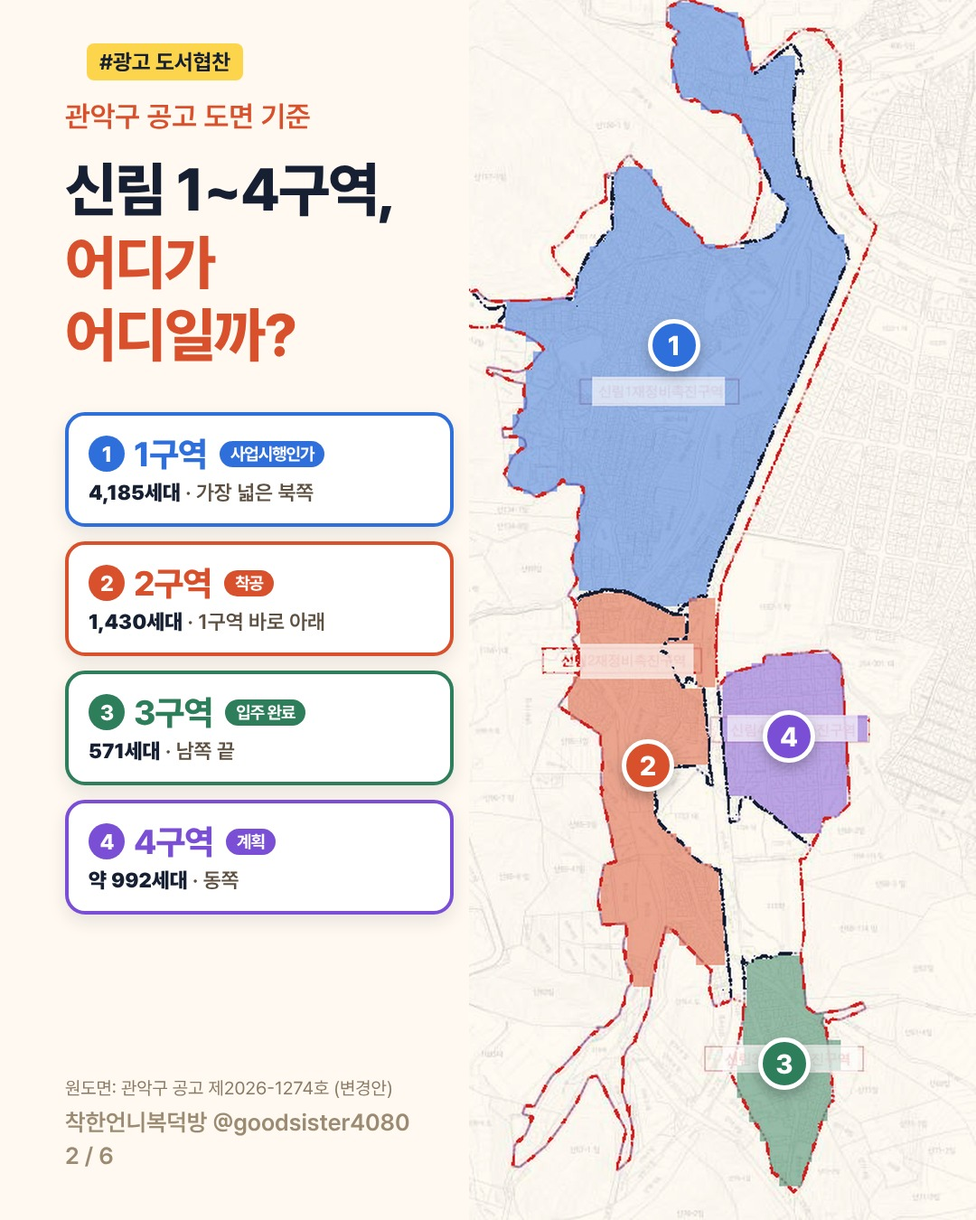
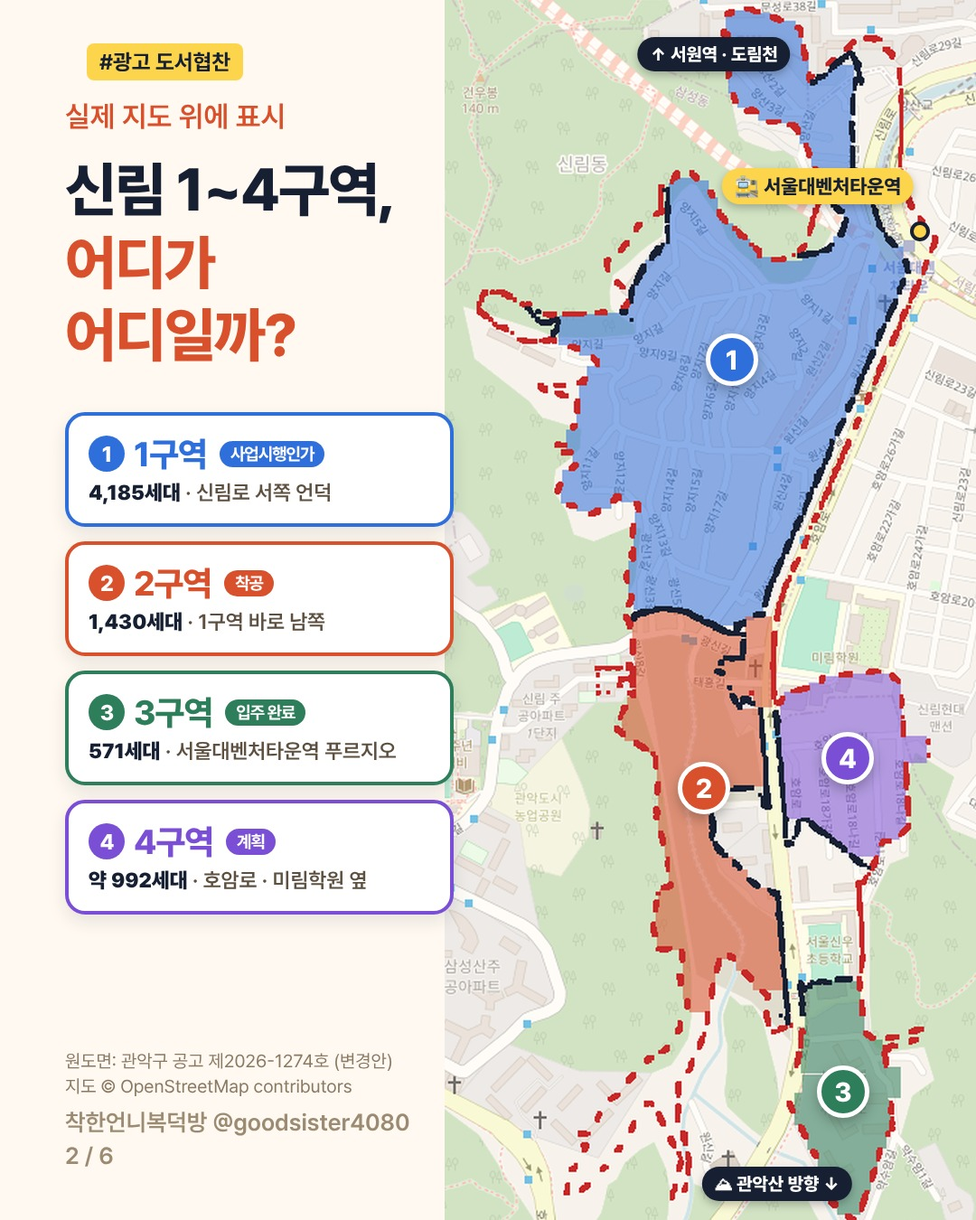
Overlay Sillim zones on real OpenStreetMap basemap with station/landmark labels (blog map + card slide 2)
Claude-Session: https://claude.ai/code/session_01TVq9LzjZFYSSJLZgCBoE65

diff --git a/naver/paste/2026-11-sillim.html b/naver/paste/2026-11-sillim.html
@@ -57,7 +57,7 @@ body{margin:0;background:#f4f4f2;font-family:-apple-system,"Apple SD Gothic Neo"
 <p style="text-align:center;font-size:16px;line-height:1.8;margin:0;font-family:'나눔바른고딕',NanumBarunGothic,'Apple SD Gothic Neo',sans-serif;">✔ <b>권리산정기준일</b>과 그 이후 지분 쪼개기·신축 여부</p><p style="text-align:center;font-size:16px;line-height:1.8;margin:0;font-family:'나눔바른고딕',NanumBarunGothic,'Apple SD Gothic Neo',sans-serif;">✔ 투기과열지구 재개발은 <b>관리처분계획인가 이후 조합원 지위 양도 제한</b> + 법정 예외 해당 여부</p><p style="text-align:center;font-size:16px;line-height:1.8;margin:0;font-family:'나눔바른고딕',NanumBarunGothic,'Apple SD Gothic Neo',sans-serif;">✔ <b>토지거래허가</b> 대상 여부 (지번·용도·면적별 최신 공고)</p>
 <table style="width:100%;border-collapse:collapse;margin:24px 0 12px;"><tr><td style="border-top:1px solid #e5e5e5;border-right:1px solid #e5e5e5;border-bottom:1px solid #e5e5e5;border-left:6px solid #555555;padding:10px 14px;font-size:19px;font-family:'나눔바른고딕',NanumBarunGothic,'Apple SD Gothic Neo',sans-serif;"><b>2. ✨ 신림 1~10구역 한눈에 보기</b></td></tr></table>
 <table style="width:100%;border-collapse:collapse;margin:12px 0;"><tr><td style="background-color:#1a2f5e;color:#ffffff;border:1px solid #d9d9d9;padding:8px;text-align:center;font-size:15px;font-family:'나눔바른고딕',NanumBarunGothic,'Apple SD Gothic Neo',sans-serif;"><b>구역</b></td><td style="background-color:#1a2f5e;color:#ffffff;border:1px solid #d9d9d9;padding:8px;text-align:center;font-size:15px;font-family:'나눔바른고딕',NanumBarunGothic,'Apple SD Gothic Neo',sans-serif;"><b>대표 지번</b></td><td style="background-color:#1a2f5e;color:#ffffff;border:1px solid #d9d9d9;padding:8px;text-align:center;font-size:15px;font-family:'나눔바른고딕',NanumBarunGothic,'Apple SD Gothic Neo',sans-serif;"><b>현재 단계 (기준일)</b></td><td style="background-color:#1a2f5e;color:#ffffff;border:1px solid #d9d9d9;padding:8px;text-align:center;font-size:15px;font-family:'나눔바른고딕',NanumBarunGothic,'Apple SD Gothic Neo',sans-serif;"><b>규모</b></td></tr><tr><td style="border:1px solid #d9d9d9;padding:8px;text-align:center;font-size:15px;font-family:'나눔바른고딕',NanumBarunGothic,'Apple SD Gothic Neo',sans-serif;"><b>1구역</b></td><td style="border:1px solid #d9d9d9;padding:8px;text-align:center;font-size:15px;font-family:'나눔바른고딕',NanumBarunGothic,'Apple SD Gothic Neo',sans-serif;">신림동 808</td><td style="border:1px solid #d9d9d9;padding:8px;text-align:center;font-size:15px;font-family:'나눔바른고딕',NanumBarunGothic,'Apple SD Gothic Neo',sans-serif;">사업시행계획인가 (2025.3.13)</td><td style="border:1px solid #d9d9d9;padding:8px;text-align:center;font-size:15px;font-family:'나눔바른고딕',NanumBarunGothic,'Apple SD Gothic Neo',sans-serif;">4,185세대</td></tr><tr><td style="border:1px solid #d9d9d9;padding:8px;text-align:center;font-size:15px;font-family:'나눔바른고딕',NanumBarunGothic,'Apple SD Gothic Neo',sans-serif;"><b>2구역</b></td><td style="border:1px solid #d9d9d9;padding:8px;text-align:center;font-size:15px;font-family:'나눔바른고딕',NanumBarunGothic,'Apple SD Gothic Neo',sans-serif;">신림동 324-25</td><td style="border:1px solid #d9d9d9;padding:8px;text-align:center;font-size:15px;font-family:'나눔바른고딕',NanumBarunGothic,'Apple SD Gothic Neo',sans-serif;">착공 (관악구 현황 2026.10.26)</td><td style="border:1px solid #d9d9d9;padding:8px;text-align:center;font-size:15px;font-family:'나눔바른고딕',NanumBarunGothic,'Apple SD Gothic Neo',sans-serif;">1,430세대</td></tr><tr><td style="border:1px solid #d9d9d9;padding:8px;text-align:center;font-size:15px;font-family:'나눔바른고딕',NanumBarunGothic,'Apple SD Gothic Neo',sans-serif;"><b>3구역</b></td><td style="border:1px solid #d9d9d9;padding:8px;text-align:center;font-size:15px;font-family:'나눔바른고딕',NanumBarunGothic,'Apple SD Gothic Neo',sans-serif;">신림동 316-55</td><td style="border:1px solid #d9d9d9;padding:8px;text-align:center;font-size:15px;font-family:'나눔바른고딕',NanumBarunGothic,'Apple SD Gothic Neo',sans-serif;"><b>입주 완료</b> · 이전고시 (2026.5.14)</td><td style="border:1px solid #d9d9d9;padding:8px;text-align:center;font-size:15px;font-family:'나눔바른고딕',NanumBarunGothic,'Apple SD Gothic Neo',sans-serif;">571세대 (서울대벤처타운역 푸르지오)</td></tr><tr><td style="border:1px solid #d9d9d9;padding:8px;text-align:center;font-size:15px;font-family:'나눔바른고딕',NanumBarunGothic,'Apple SD Gothic Neo',sans-serif;">4구역</td><td style="border:1px solid #d9d9d9;padding:8px;text-align:center;font-size:15px;font-family:'나눔바른고딕',NanumBarunGothic,'Apple SD Gothic Neo',sans-serif;">신림동 306</td><td style="border:1px solid #d9d9d9;padding:8px;text-align:center;font-size:15px;font-family:'나눔바른고딕',NanumBarunGothic,'Apple SD Gothic Neo',sans-serif;">신통 가이드라인 확정 (2026.4.27)</td><td style="border:1px solid #d9d9d9;padding:8px;text-align:center;font-size:15px;font-family:'나눔바른고딕',NanumBarunGothic,'Apple SD Gothic Neo',sans-serif;">약 992세대 (계획)</td></tr><tr><td style="border:1px solid #d9d9d9;padding:8px;text-align:center;font-size:15px;font-family:'나눔바른고딕',NanumBarunGothic,'Apple SD Gothic Neo',sans-serif;">5구역</td><td style="border:1px solid #d9d9d9;padding:8px;text-align:center;font-size:15px;font-family:'나눔바른고딕',NanumBarunGothic,'Apple SD Gothic Neo',sans-serif;">신림동 412</td><td style="border:1px solid #d9d9d9;padding:8px;text-align:center;font-size:15px;font-family:'나눔바른고딕',NanumBarunGothic,'Apple SD Gothic Neo',sans-serif;">구역지정 (2026.2.26) · 신탁 시행자 지정 (6.4)</td><td style="border:1px solid #d9d9d9;padding:8px;text-align:center;font-size:15px;font-family:'나눔바른고딕',NanumBarunGothic,'Apple SD Gothic Neo',sans-serif;">3,973세대 (계획)</td></tr><tr><td style="border:1px solid #d9d9d9;padding:8px;text-align:center;font-size:15px;font-family:'나눔바른고딕',NanumBarunGothic,'Apple SD Gothic Neo',sans-serif;">6구역</td><td style="border:1px solid #d9d9d9;padding:8px;text-align:center;font-size:15px;font-family:'나눔바른고딕',NanumBarunGothic,'Apple SD Gothic Neo',sans-serif;">신림동 419</td><td style="border:1px solid #d9d9d9;padding:8px;text-align:center;font-size:15px;font-family:'나눔바른고딕',NanumBarunGothic,'Apple SD Gothic Neo',sans-serif;">구역지정 (2026.5.28)</td><td style="border:1px solid #d9d9d9;padding:8px;text-align:center;font-size:15px;font-family:'나눔바른고딕',NanumBarunGothic,'Apple SD Gothic Neo',sans-serif;">957세대 (지정 후 구청 설명)</td></tr><tr><td style="border:1px solid #d9d9d9;padding:8px;text-align:center;font-size:15px;font-family:'나눔바른고딕',NanumBarunGothic,'Apple SD Gothic Neo',sans-serif;">7구역</td><td style="border:1px solid #d9d9d9;padding:8px;text-align:center;font-size:15px;font-family:'나눔바른고딕',NanumBarunGothic,'Apple SD Gothic Neo',sans-serif;">신림동 675</td><td style="border:1px solid #d9d9d9;padding:8px;text-align:center;font-size:15px;font-family:'나눔바른고딕',NanumBarunGothic,'Apple SD Gothic Neo',sans-serif;">조합설립인가 (2026.9 게시)</td><td style="border:1px solid #d9d9d9;padding:8px;text-align:center;font-size:15px;font-family:'나눔바른고딕',NanumBarunGothic,'Apple SD Gothic Neo',sans-serif;">1,402세대 (계획)</td></tr><tr><td style="border:1px solid #d9d9d9;padding:8px;text-align:center;font-size:15px;font-family:'나눔바른고딕',NanumBarunGothic,'Apple SD Gothic Neo',sans-serif;"><b>8구역</b></td><td style="border:1px solid #d9d9d9;padding:8px;text-align:center;font-size:15px;font-family:'나눔바른고딕',NanumBarunGothic,'Apple SD Gothic Neo',sans-serif;">신림동 650</td><td style="border:1px solid #d9d9d9;padding:8px;text-align:center;font-size:15px;font-family:'나눔바른고딕',NanumBarunGothic,'Apple SD Gothic Neo',sans-serif;">조합설립인가 (2026.10.7 고시)</td><td style="border:1px solid #d9d9d9;padding:8px;text-align:center;font-size:15px;font-family:'나눔바른고딕',NanumBarunGothic,'Apple SD Gothic Neo',sans-serif;">2,257세대 (계획)</td></tr><tr><td style="border:1px solid #d9d9d9;padding:8px;text-align:center;font-size:15px;font-family:'나눔바른고딕',NanumBarunGothic,'Apple SD Gothic Neo',sans-serif;">9구역</td><td style="border:1px solid #d9d9d9;padding:8px;text-align:center;font-size:15px;font-family:'나눔바른고딕',NanumBarunGothic,'Apple SD Gothic Neo',sans-serif;">신림동 119-1</td><td style="border:1px solid #d9d9d9;padding:8px;text-align:center;font-size:15px;font-family:'나눔바른고딕',NanumBarunGothic,'Apple SD Gothic Neo',sans-serif;">정비계획 수립 용역</td><td style="border:1px solid #d9d9d9;padding:8px;text-align:center;font-size:15px;font-family:'나눔바른고딕',NanumBarunGothic,'Apple SD Gothic Neo',sans-serif;">미확정</td></tr><tr><td style="border:1px solid #d9d9d9;padding:8px;text-align:center;font-size:15px;font-family:'나눔바른고딕',NanumBarunGothic,'Apple SD Gothic Neo',sans-serif;">10구역</td><td style="border:1px solid #d9d9d9;padding:8px;text-align:center;font-size:15px;font-family:'나눔바른고딕',NanumBarunGothic,'Apple SD Gothic Neo',sans-serif;">신림동 610-200</td><td style="border:1px solid #d9d9d9;padding:8px;text-align:center;font-size:15px;font-family:'나눔바른고딕',NanumBarunGothic,'Apple SD Gothic Neo',sans-serif;">추진위 승인 (2026.7.16)</td><td style="border:1px solid #d9d9d9;padding:8px;text-align:center;font-size:15px;font-family:'나눔바른고딕',NanumBarunGothic,'Apple SD Gothic Neo',sans-serif;">미확정</td></tr></table><p style="text-align:center;font-size:13px;line-height:1.8;margin:0;font-family:'나눔바른고딕',NanumBarunGothic,'Apple SD Gothic Neo',sans-serif;color:#888888;">1~4구역 = 신림재정비촉진지구 · 5~10구역 = 촉진지구 밖 개별 사업지 · "계획" 수치는 인가 단계에서 바뀔 수 있어요</p>
-<p style="text-align:center;margin:12px 0 4px"><img src="img/sillim-1to4-zones.jpg" alt="신림 1~4구역 한눈에 보기 — 구역별 색 표시 (원도면: 관악구 공고 제2026-1274호)" style="max-width:100%;border:1px solid #ddd"></p><p style="text-align:center;font-size:13px;line-height:1.8;margin:0;font-family:'나눔바른고딕',NanumBarunGothic,'Apple SD Gothic Neo',sans-serif;color:#2b7de9;">📷 [이미지 업로드: 신림 1~4구역 한눈에 보기 — 구역별 색 표시 (원도면: 관악구 공고 제2026-1274호) → 오른쪽 '이미지 내려받기']</p>
+<p style="text-align:center;margin:12px 0 4px"><img src="img/sillim-1to4-zones.jpg" alt="신림 1~4구역 한눈에 보기 — 실제 지도 위 구역 표시 (원도면: 관악구 공고 제2026-1274호, 지도 © OpenStreetMap)" style="max-width:100%;border:1px solid #ddd"></p><p style="text-align:center;font-size:13px;line-height:1.8;margin:0;font-family:'나눔바른고딕',NanumBarunGothic,'Apple SD Gothic Neo',sans-serif;color:#2b7de9;">📷 [이미지 업로드: 신림 1~4구역 한눈에 보기 — 실제 지도 위 구역 표시 (원도면: 관악구 공고 제2026-1274호, 지도 © OpenStreetMap) → 오른쪽 '이미지 내려받기']</p>
 <p style="text-align:center;font-size:15px;line-height:1.8;margin:0;font-family:'나눔바른고딕',NanumBarunGothic,'Apple SD Gothic Neo',sans-serif;"><b><span style="color:#7b4fd6">1구역</span></b>(북쪽 가장 넓은 곳) → <b><span style="color:#e0157a">2구역</span></b> → <b>3구역</b>(남쪽, 입주 완료)이 한 줄로 이어지고,</p><p style="text-align:center;font-size:15px;line-height:1.8;margin:0;font-family:'나눔바른고딕',NanumBarunGothic,'Apple SD Gothic Neo',sans-serif;">4구역은 동쪽에 따로 붙어 있어요.</p>
 <p style="text-align:center;margin:12px 0 4px"><img src="img/sillim-1to4-boundary.jpg" alt="원도면 그대로 — 관악구 공고 제2026-1274호 재정비촉진구역 결정도(변경안)" style="max-width:100%;border:1px solid #ddd"></p><p style="text-align:center;font-size:13px;line-height:1.8;margin:0;font-family:'나눔바른고딕',NanumBarunGothic,'Apple SD Gothic Neo',sans-serif;color:#2b7de9;">📷 [이미지 업로드: 원도면 그대로 — 관악구 공고 제2026-1274호 재정비촉진구역 결정도(변경안) → 오른쪽 '이미지 내려받기']</p>
 <p style="text-align:center;font-size:16px;line-height:1.8;margin:0;font-family:'나눔바른고딕',NanumBarunGothic,'Apple SD Gothic Neo',sans-serif;">여기서 하나는 구분해서 봐야 하는데요,</p><p style="text-align:center;font-size:16px;line-height:1.8;margin:0;font-family:'나눔바른고딕',NanumBarunGothic,'Apple SD Gothic Neo',sans-serif;">1~3구역을 합치면 <b>6,186세대</b>지만 <b><span style="color:#7b4fd6">3구역 571세대는 이미 입주</span></b>했어요.</p><p style="text-align:center;font-size:16px;line-height:1.8;margin:0;font-family:'나눔바른고딕',NanumBarunGothic,'Apple SD Gothic Neo',sans-serif;">"앞으로 6천 세대가 들어온다"가 아니라, <b>입주 시기가 각각 다른 6천여 세대</b>예요.</p>
@@ -111,8 +111,8 @@ body{margin:0;background:#f4f4f2;font-family:-apple-system,"Apple SD Gothic Neo"
 <li>⑤ 맨 아래 법정 표시는 「내 템플릿」에 저장해 둔 서명과 같아요 — 템플릿을 썼다면 이 부분은 지워도 돼요</li>
 </ul></div>
 <div class="card"><h3>인용구로 바꿀 문장</h3><ul><li><span class="qk">인용구 · 기본</span> 한 줄 요약 신림은 "뉴타운 하나"가 아니라 단계가 제각각인 10개 사업지예요. 이름보다 구역별 단계부터 보세요. <button class="mini" data-t="한 줄 요약 신림은 &quot;뉴타운 하나&quot;가 아니라 단계가 제각각인 10개 사업지예요. 이름보다 구역별 단계부터 보세요.">문장 복사</button></li></ul></div>
-<div class="card"><h3>이미지 내려받기 (직접 업로드)</h3><ul><li><a href="img/sillim-1to4-zones.jpg" download>신림 1~4구역 한눈에 보기 — 구역별 색 표시 (원도면: 관악구 공고 제2026-1274호)</a></li><li><a href="img/sillim-1to4-boundary.jpg" download>원도면 그대로 — 관악구 공고 제2026-1274호 재정비촉진구역 결정도(변경안)</a></li><li><a href="img/sillim-6-boundary.jpg" download>신림6구역 정비구역 결정도 (서울시 고시 제2026-303호)</a></li><li><a href="img/sillim-6-plan.jpg" download>신림6구역 정비계획 결정도 — 획지·학교·공원 배치 (서울시 고시 제2026-303호)</a></li><li><a href="img/sillim-7-boundary.jpg" download>신림7구역 정비구역 결정도 (관악구 고시 제2024-104호)</a></li></ul></div>
-<div class="card"><h3>발행 정보</h3><ul><li><b>제목(BEST)</b>: 신림 재개발 전망 2026, 지금 사도 될까 (1~10구역 Q&amp;A + 실거래가)</li><li><b>태그</b>: 신림재개발, 신림뉴타운, 신림1구역, 신림2구역, 서울대벤처타운역푸르지오, 신림8구역, 관악구재개발, 착한언니복덕방</li><li><b>썸네일</b>: 「신림, 10개 구역 단계가 다 달라요」 / 「3구역 84㎡ 11억 8천 (26.9)」 / 「여의도 16분 · 강남은?」</li><li><b>⚠ 광고 표기</b>: 상단·책 소개·하단 3곳 유지 (도서 협찬)</li><li><b>도면 이미지</b>: 공식 고시·공고 붙임 도면 (저작권법 제7조) — 출처 캡션 포함, 서울시 신통기획 홈페이지 조감도·위치도는 공공누리 4유형(상업 이용·변경 금지)이라 쓰지 않음</li><li><b>⚠ 발행 전</b>: ✍ 칸 · 네이버 호가(날짜) · 책 쪽수 대조 · 난곡선 예타(12월) 결과 나오면 갱신</li></ul></div>
+<div class="card"><h3>이미지 내려받기 (직접 업로드)</h3><ul><li><a href="img/sillim-1to4-zones.jpg" download>신림 1~4구역 한눈에 보기 — 실제 지도 위 구역 표시 (원도면: 관악구 공고 제2026-1274호, 지도 © OpenStreetMap)</a></li><li><a href="img/sillim-1to4-boundary.jpg" download>원도면 그대로 — 관악구 공고 제2026-1274호 재정비촉진구역 결정도(변경안)</a></li><li><a href="img/sillim-6-boundary.jpg" download>신림6구역 정비구역 결정도 (서울시 고시 제2026-303호)</a></li><li><a href="img/sillim-6-plan.jpg" download>신림6구역 정비계획 결정도 — 획지·학교·공원 배치 (서울시 고시 제2026-303호)</a></li><li><a href="img/sillim-7-boundary.jpg" download>신림7구역 정비구역 결정도 (관악구 고시 제2024-104호)</a></li></ul></div>
+<div class="card"><h3>발행 정보</h3><ul><li><b>제목(BEST)</b>: 신림 재개발 전망 2026, 지금 사도 될까 (1~10구역 Q&amp;A + 실거래가)</li><li><b>태그</b>: 신림재개발, 신림뉴타운, 신림1구역, 신림2구역, 서울대벤처타운역푸르지오, 신림8구역, 관악구재개발, 착한언니복덕방</li><li><b>썸네일</b>: 「신림, 10개 구역 단계가 다 달라요」 / 「3구역 84㎡ 11억 8천 (26.9)」 / 「여의도 16분 · 강남은?」</li><li><b>⚠ 광고 표기</b>: 상단·책 소개·하단 3곳 유지 (도서 협찬)</li><li><b>도면 이미지</b>: 공식 고시·공고 붙임 도면 (저작권법 제7조) · 실제 지도는 OpenStreetMap (출처 표기 필수) — 출처 캡션 포함, 서울시 신통기획 홈페이지 조감도·위치도는 공공누리 4유형(상업 이용·변경 금지)이라 쓰지 않음</li><li><b>⚠ 발행 전</b>: ✍ 칸 · 네이버 호가(날짜) · 책 쪽수 대조 · 난곡선 예타(12월) 결과 나오면 갱신</li></ul></div>
 <div class="card" style="font-size:12px;color:#777">데이터: 국토교통부 아파트 매매·전월세·분양권(입주권) 실거래 (관악구, 2025.11~2026.10 계약분, 2026.11.6 조회) · 구역 단계: 관악구 재정비촉진구역 현황(2026.10.26)·서울시/관악구 고시·정비몽땅 · 교통: 서울시 발표 · 작성 규칙 MASTER v1.2 · 도서 협찬 포함</div>
 </div></div>
 <div class="toast" id="toast">복사됐어요</div>

diff --git a/naver/paste/img/src/blogmap.html b/naver/paste/img/src/blogmap.html
@@ -1,0 +1,31 @@
+<!doctype html><html lang="ko"><head><meta charset="utf-8"><link rel="stylesheet" href="https://cdn.jsdelivr.net/gh/orioncactus/pretendard@v1.3.9/dist/web/static/pretendard.min.css"><style>*{box-sizing:border-box;margin:0;padding:0}body{font-family:Pretendard,sans-serif;word-break:keep-all;background:#888}
+.lb{position:absolute;transform:translate(-50%,-50%);background:#fff;border-radius:24px;padding:16px 24px;box-shadow:0 10px 24px rgba(23,32,51,.2);border:4px solid var(--c);white-space:nowrap;z-index:3}
+.lb .n{display:flex;align-items:center;gap:10px;font-size:40px;font-weight:800;letter-spacing:-1px;color:var(--c)}
+.lb .n i{font-style:normal;width:38px;height:38px;border-radius:50%;background:var(--c);color:#fff;font-size:22px;display:flex;align-items:center;justify-content:center}
+.lb .s{font-size:22px;font-weight:600;color:#5D5040;margin-top:4px}.lb .s b{color:#172033}
+.bd{display:inline-block;font-size:18px;font-weight:700;color:#fff;background:var(--c);border-radius:999px;padding:3px 12px}
+.lm{position:absolute;transform:translate(-50%,-50%);display:flex;align-items:center;gap:6px;background:#172033;color:#fff;font-size:21px;font-weight:700;border-radius:999px;padding:7px 14px 7px 10px;white-space:nowrap;z-index:2;box-shadow:0 4px 10px rgba(0,0,0,.25)}
+.lm.y{background:#FDD54D;color:#172033}.lm.b{background:#2B7DE9}
+.pin{position:absolute;width:54px;height:54px;border-radius:50%;background:var(--c);color:#fff;font-size:28px;font-weight:800;display:flex;align-items:center;justify-content:center;border:5px solid #fff;box-shadow:0 6px 14px rgba(0,0,0,.25);transform:translate(-50%,-50%);z-index:2}
+svg{position:absolute;inset:0;z-index:1}</style><style>
+.w{width:1200px;background:#FFF9F1;color:#172033}.hd{background:#172033;color:#fff;padding:40px 56px 36px}.hd .ey{font-size:24px;font-weight:600;color:#FDD54D;margin-bottom:10px}.hd h1{font-size:50px;font-weight:800;letter-spacing:-1.5px;line-height:1.2}.hd h1 .y{color:#FDD54D}
+.map{position:relative;width:1200px;height:2218px;background:url(osm_blog.png) 0 0/1200px auto no-repeat}
+.ft{padding:28px 56px 40px}.lg{display:flex;flex-wrap:wrap;gap:12px 22px;align-items:center;font-size:24px;font-weight:700}.lg span{display:flex;align-items:center;gap:8px}.lg i{width:26px;height:26px;border-radius:7px;display:inline-block}.lg em{font-style:normal;font-size:21px;font-weight:600;color:#7A6A55}.src{margin-top:16px;font-size:19px;color:#7A6A55;line-height:1.6}.brand{margin-top:12px;font-size:20px;font-weight:700;color:#9C8B73}
+</style></head><body><div class="w">
+<div class="hd"><p class="ey">신림 재정비촉진지구 · 실제 지도 위에 표시</p><h1>신림 1~4구역, <span class="y">어디가 어디일까?</span></h1></div>
+<div class="map">
+<svg width="1200" height="2218"><g stroke-width="5">
+<line x1="546" y1="897" x2="250" y2="830" stroke="#2F6FDB"/><line x1="512" y1="1428" x2="230" y2="1520" stroke="#D9502C"/><line x1="690" y1="1391" x2="1000" y2="1330" stroke="#7A4FD6"/><line x1="684" y1="1803" x2="975" y2="1880" stroke="#2E7D5B"/></g>
+<g fill="#fff" stroke-width="4"><circle cx="546" cy="897" r="11" stroke="#2F6FDB" fill="#2F6FDB"/><circle cx="512" cy="1428" r="11" stroke="#D9502C" fill="#D9502C"/><circle cx="690" cy="1391" r="11" stroke="#7A4FD6" fill="#7A4FD6"/><circle cx="684" cy="1803" r="11" stroke="#2E7D5B" fill="#2E7D5B"/></g><g stroke="#172033" stroke-width="3" fill="#FDD54D"><line x1="780" y1="737" x2="860" y2="700"/><circle cx="780" cy="737" r="12"/><line x1="667" y1="188" x2="667" y2="150"/><circle cx="667" cy="188" r="12"/></g></svg>
+<div class="lb" style="--c:#2F6FDB;left:250px;top:830px"><div class="n"><i>1</i>1구역 <span class="bd">사업시행인가</span></div><div class="s"><b>4,185세대</b> · 신림로 서쪽 언덕</div></div>
+<div class="lb" style="--c:#D9502C;left:230px;top:1520px"><div class="n"><i>2</i>2구역 <span class="bd">착공</span></div><div class="s"><b>1,430세대</b> · 1구역 바로 남쪽</div></div>
+<div class="lb" style="--c:#7A4FD6;left:1000px;top:1330px"><div class="n"><i>4</i>4구역 <span class="bd">계획</span></div><div class="s"><b>약 992세대</b> · 호암로 · 미림학원 옆</div></div>
+<div class="lb" style="--c:#2E7D5B;left:975px;top:1880px"><div class="n"><i>3</i>3구역 <span class="bd">입주 완료</span></div><div class="s"><b>571세대</b> · 서울대벤처타운역 푸르지오</div></div>
+<span class="lm y" style="left:667px;top:135px">🚉 서원역 (신림선)</span>
+<span class="lm y" style="left:960px;top:690px">🚉 서울대벤처타운역 (신림선)</span>
+<span class="lm b" style="left:1000px;top:290px">〰 도림천</span>
+<span class="lm" style="left:600px;top:2150px">⛰ 관악산 방향 ↓</span>
+</div>
+<div class="ft"><div class="lg"><span><i style="background:#2F6FDB"></i>1구역</span><span><i style="background:#D9502C"></i>2구역</span><span><i style="background:#2E7D5B"></i>3구역</span><span><i style="background:#7A4FD6"></i>4구역</span><em>붉은 점선 = 촉진지구 · 남색 = 구역 경계</em></div>
+<p class="src">구역 경계: 관악구 공고 제2026-1274호 결정도(변경안)를 축척(1:5,000)에 맞춰 실제 지도에 겹친 개략 위치예요. 정확한 필지 경계는 고시 도면으로 확인하세요.<br>바탕 지도 © OpenStreetMap contributors · 세대수·단계: 관악구 현황(2026.10.26) · 4구역은 계획 수치</p>
+<p class="brand">착한언니복덕방 @goodsister4080</p></div></div></body></html>

diff --git a/instagram/cards/2026-11-sillim/cards.html b/instagram/cards/2026-11-sillim/cards.html
@@ -63,6 +63,7 @@ tr.hl td{background:#172033;color:#fff}tr.hl td small{color:#AEB6C8}tr.hl td .r{
 .z .n i{font-style:normal;width:40px;height:40px;border-radius:50%;background:var(--c);color:#fff;font-size:24px;display:flex;align-items:center;justify-content:center}
 .z .s{font-size:23px;font-weight:600;color:#5D5040;margin-top:6px}.z .s b{color:#172033}
 .z .bd{display:inline-block;font-size:19px;font-weight:700;color:#fff;background:var(--c);border-radius:999px;padding:3px 12px;margin-left:4px}
+.stn{position:absolute;width:22px;height:22px;border-radius:50%;background:#FDD54D;border:4px solid #172033;transform:translate(-50%,-50%);z-index:3}.lmk{position:absolute;transform:translate(-50%,-50%);background:#FDD54D;color:#172033;font-size:22px;font-weight:800;border-radius:999px;padding:7px 14px;white-space:nowrap;box-shadow:0 4px 10px rgba(0,0,0,.25);z-index:3}.lmk.lt2{background:#172033;color:#fff;font-size:20px}
 .pin{position:absolute;width:58px;height:58px;border-radius:50%;background:var(--c);color:#fff;font-size:30px;font-weight:800;display:flex;align-items:center;justify-content:center;border:5px solid #fff;box-shadow:0 6px 14px rgba(0,0,0,.25);transform:translate(-50%,-50%)}
 </style></head><body>
 
@@ -81,17 +82,17 @@ tr.hl td{background:#172033;color:#fff}tr.hl td small{color:#AEB6C8}tr.hl td .r{
 <!-- 2 지도 -->
 <section class="c mapc" id="c2m"><div class="mp"></div><span class="ad">#광고 도서협찬</span>
   <div class="lt">
-    <p class="ey">관악구 공고 도면 기준</p>
+    <p class="ey">실제 지도 위에 표시</p>
     <h1 style="font-size:66px">신림 1~4구역,<br><span class="o">어디가<br>어디일까?</span></h1>
     <div class="zl">
-      <div class="z" style="--c:#2F6FDB"><div class="n"><i>1</i>1구역<span class="bd">사업시행인가</span></div><div class="s"><b>4,185세대</b> · 가장 넓은 북쪽</div></div>
-      <div class="z" style="--c:#D9502C"><div class="n"><i>2</i>2구역<span class="bd">착공</span></div><div class="s"><b>1,430세대</b> · 1구역 바로 아래</div></div>
-      <div class="z" style="--c:#2E7D5B"><div class="n"><i>3</i>3구역<span class="bd">입주 완료</span></div><div class="s"><b>571세대</b> · 남쪽 끝</div></div>
-      <div class="z" style="--c:#7A4FD6"><div class="n"><i>4</i>4구역<span class="bd">계획</span></div><div class="s"><b>약 992세대</b> · 동쪽</div></div>
+      <div class="z" style="--c:#2F6FDB"><div class="n"><i>1</i>1구역<span class="bd">사업시행인가</span></div><div class="s"><b>4,185세대</b> · 신림로 서쪽 언덕</div></div>
+      <div class="z" style="--c:#D9502C"><div class="n"><i>2</i>2구역<span class="bd">착공</span></div><div class="s"><b>1,430세대</b> · 1구역 바로 남쪽</div></div>
+      <div class="z" style="--c:#2E7D5B"><div class="n"><i>3</i>3구역<span class="bd">입주 완료</span></div><div class="s"><b>571세대</b> · 서울대벤처타운역 푸르지오</div></div>
+      <div class="z" style="--c:#7A4FD6"><div class="n"><i>4</i>4구역<span class="bd">계획</span></div><div class="s"><b>약 992세대</b> · 호암로 · 미림학원 옆</div></div>
     </div>
   </div>
   
-  <span class="ref" style="left:72px;right:auto;bottom:134px;color:#8A7A64">원도면: 관악구 공고 제2026-1274호 (변경안)</span><span class="pin" style="--c:#2F6FDB;left:746px;top:382px">1</span><span class="pin" style="--c:#D9502C;left:717px;top:847px">2</span><span class="pin" style="--c:#7A4FD6;left:873px;top:815px">4</span><span class="pin" style="--c:#2E7D5B;left:868px;top:1177px">3</span>
+  <span class="ref" style="left:72px;right:auto;bottom:134px;color:#8A7A64;width:400px;line-height:1.4">원도면: 관악구 공고 제2026-1274호 (변경안)<br>지도 © OpenStreetMap contributors</span><span class="pin" style="--c:#2F6FDB;left:810px;top:398px">1</span><span class="pin" style="--c:#D9502C;left:779px;top:872px">2</span><span class="pin" style="--c:#7A4FD6;left:938px;top:839px">4</span><span class="pin" style="--c:#2E7D5B;left:933px;top:1208px">3</span><span class="stn" style="left:1018px;top:256px"></span><span class="lmk" style="left:905px;top:206px">🚉 서울대벤처타운역</span><span class="lmk lt2" style="left:790px;top:60px">↑ 서원역 · 도림천</span><span class="lmk lt2" style="left:860px;top:1310px">⛰ 관악산 방향 ↓</span>
   <div class="foot" style="right:auto;width:425px;left:72px;flex-direction:column;gap:6px"><span>착한언니복덕방 @goodsister4080</span><span>2 / 6</span></div>
 </section>
 

diff --git a/index.html b/index.html
@@ -105,7 +105,7 @@ footer{margin-top:48px;color:var(--tx3);font-size:12px}
   <div class="cards">
     <div class="card"><h3>📚 신림 재개발 카드뉴스 · <code>오를 곳</code> · #광고 도서협찬</h3>
       <p><b>신림 재개발, 구역마다 단계가 달라요</b> (6장 · 2장 = 구역 지도 · 릴스와 함께)</p>
-      <div class="thumbs"><a href="instagram/cards/2026-11-sillim/card-sillim-1.png?v=2"><img src="instagram/cards/2026-11-sillim/card-sillim-1.png?v=2" alt="1"></a><a href="instagram/cards/2026-11-sillim/card-sillim-2.png?v=2"><img src="instagram/cards/2026-11-sillim/card-sillim-2.png?v=2" alt="2"></a><a href="instagram/cards/2026-11-sillim/card-sillim-3.png?v=2"><img src="instagram/cards/2026-11-sillim/card-sillim-3.png?v=2" alt="3"></a><a href="instagram/cards/2026-11-sillim/card-sillim-4.png?v=2"><img src="instagram/cards/2026-11-sillim/card-sillim-4.png?v=2" alt="4"></a><a href="instagram/cards/2026-11-sillim/card-sillim-5.png?v=2"><img src="instagram/cards/2026-11-sillim/card-sillim-5.png?v=2" alt="5"></a><a href="instagram/cards/2026-11-sillim/card-sillim-6.png?v=2"><img src="instagram/cards/2026-11-sillim/card-sillim-6.png?v=2" alt="6"></a></div>
+      <div class="thumbs"><a href="instagram/cards/2026-11-sillim/card-sillim-1.png?v=2"><img src="instagram/cards/2026-11-sillim/card-sillim-1.png?v=2" alt="1"></a><a href="instagram/cards/2026-11-sillim/card-sillim-2.png?v=3"><img src="instagram/cards/2026-11-sillim/card-sillim-2.png?v=3" alt="2"></a><a href="instagram/cards/2026-11-sillim/card-sillim-3.png?v=2"><img src="instagram/cards/2026-11-sillim/card-sillim-3.png?v=2" alt="3"></a><a href="instagram/cards/2026-11-sillim/card-sillim-4.png?v=2"><img src="instagram/cards/2026-11-sillim/card-sillim-4.png?v=2" alt="4"></a><a href="instagram/cards/2026-11-sillim/card-sillim-5.png?v=2"><img src="instagram/cards/2026-11-sillim/card-sillim-5.png?v=2" alt="5"></a><a href="instagram/cards/2026-11-sillim/card-sillim-6.png?v=2"><img src="instagram/cards/2026-11-sillim/card-sillim-6.png?v=2" alt="6"></a></div>
       <ul><li>캡션·고정 댓글: <a href="instagram/cards/2026-11-sillim/README.html"><b>README</b></a></li><li>릴스 대본 수정본: <a href="instagram/2026-11-sillim-reel-cards.html">릴스·카드 기획</a></li><li>블로그: <a href="naver/paste/2026-11-sillim.html"><b>📋 붙여넣기용</b></a></li></ul></div>
     <div class="card"><h3>11/6(금) 카드뉴스 · <code>계약금</code> · 오늘 밤 9시</h3>
       <p><b>대출 안 나오면 계약금 돌려받나요?</b> (4장)</p>

diff --git a/tools/blog_paste.py b/tools/blog_paste.py
@@ -550,7 +550,7 @@ def sillim():
              ["9구역", "신림동 119-1", "정비계획 수립 용역", "미확정"],
              ["10구역", "신림동 610-200", "추진위 승인 (2026.7.16)", "미확정"]],
             note="1~4구역 = 신림재정비촉진지구 · 5~10구역 = 촉진지구 밖 개별 사업지 · \"계획\" 수치는 인가 단계에서 바뀔 수 있어요")
-    a.image("img/sillim-1to4-zones.jpg", "신림 1~4구역 한눈에 보기 — 구역별 색 표시 (원도면: 관악구 공고 제2026-1274호)")
+    a.image("img/sillim-1to4-zones.jpg", "신림 1~4구역 한눈에 보기 — 실제 지도 위 구역 표시 (원도면: 관악구 공고 제2026-1274호, 지도 © OpenStreetMap)")
     a.text("[[1구역]](북쪽 가장 넓은 곳) → {{2구역}} → **3구역**(남쪽, 입주 완료)이 한 줄로 이어지고,", "4구역은 동쪽에 따로 붙어 있어요.", size=15)
     a.image("img/sillim-1to4-boundary.jpg", "원도면 그대로 — 관악구 공고 제2026-1274호 재정비촉진구역 결정도(변경안)")
     a.text("여기서 하나는 구분해서 봐야 하는데요,", "1~3구역을 합치면 **6,186세대**지만 [[3구역 571세대는 이미 입주]]했어요.",
@@ -648,7 +648,7 @@ def sillim():
             "**태그**: 신림재개발, 신림뉴타운, 신림1구역, 신림2구역, 서울대벤처타운역푸르지오, 신림8구역, 관악구재개발, 착한언니복덕방",
             "**썸네일**: 「신림, 10개 구역 단계가 다 달라요」 / 「3구역 84㎡ 11억 8천 (26.9)」 / 「여의도 16분 · 강남은?」",
             "**⚠ 광고 표기**: 상단·책 소개·하단 3곳 유지 (도서 협찬)",
-            "**도면 이미지**: 공식 고시·공고 붙임 도면 (저작권법 제7조) — 출처 캡션 포함, 서울시 신통기획 홈페이지 조감도·위치도는 공공누리 4유형(상업 이용·변경 금지)이라 쓰지 않음",
+            "**도면 이미지**: 공식 고시·공고 붙임 도면 (저작권법 제7조) · 실제 지도는 OpenStreetMap (출처 표기 필수) — 출처 캡션 포함, 서울시 신통기획 홈페이지 조감도·위치도는 공공누리 4유형(상업 이용·변경 금지)이라 쓰지 않음",
             "**⚠ 발행 전**: ✍ 칸 · 네이버 호가(날짜) · 책 쪽수 대조 · 난곡선 예타(12월) 결과 나오면 갱신"]
     return a, side
 

diff --git a/instagram/cards/2026-11-sillim/README.md b/instagram/cards/2026-11-sillim/README.md
@@ -3,7 +3,7 @@
 **형식**: 6장 (2장 = 1~4구역 지도) · 댓글 키워드 `오를 곳` · **#광고 도서협찬 표기 필수**
 **연결**: 릴스(신림뉴타운) · 블로그 [naver/paste/2026-11-sillim.html](../../../naver/paste/2026-11-sillim.html) · 노션 「6년 뒤 서울 부동산 순위」
 **보상**: 22개 지역 순위 자료(노션) DM · 11/30 《이제부터는 오를 곳만 오른다》 3권 추첨
-**도면**: 1장 배경·2장 지도 = 관악구 공고 제2026-1274호 재정비촉진구역 결정도 (공식 공고 도면, 구역 색은 착한언니 표시)
+**도면**: 1장 배경·2장 지도 = 관악구 공고 제2026-1274호 재정비촉진구역 결정도 (공식 공고 도면, 구역 색은 착한언니 표시) · 2장은 OpenStreetMap 실제 지도 위에 축척(1:5,000) 맞춰 겹침 → 캡션·이미지에 `© OpenStreetMap contributors` 필수
 **소스**: `cards.html` (과천 카드 디자인 재사용) → 1080×1350 PNG
 
 ## 캡션
